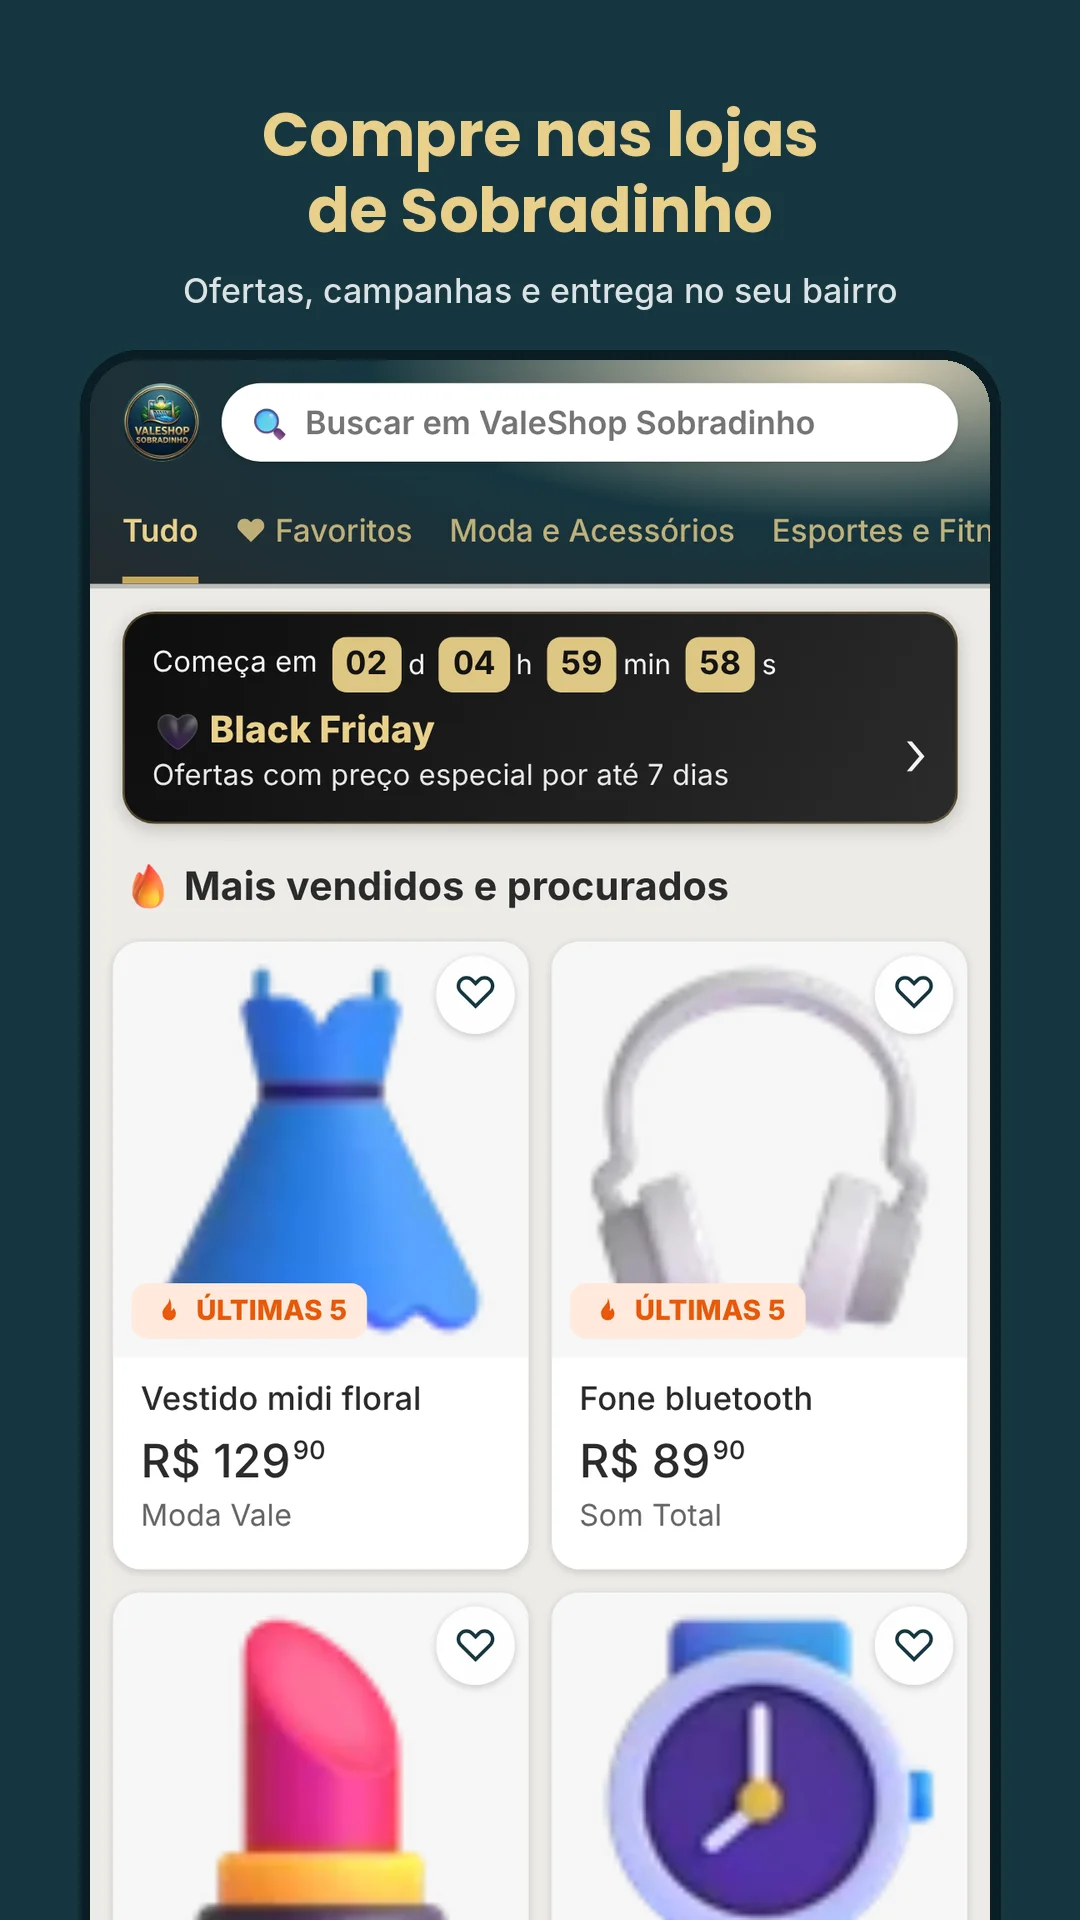
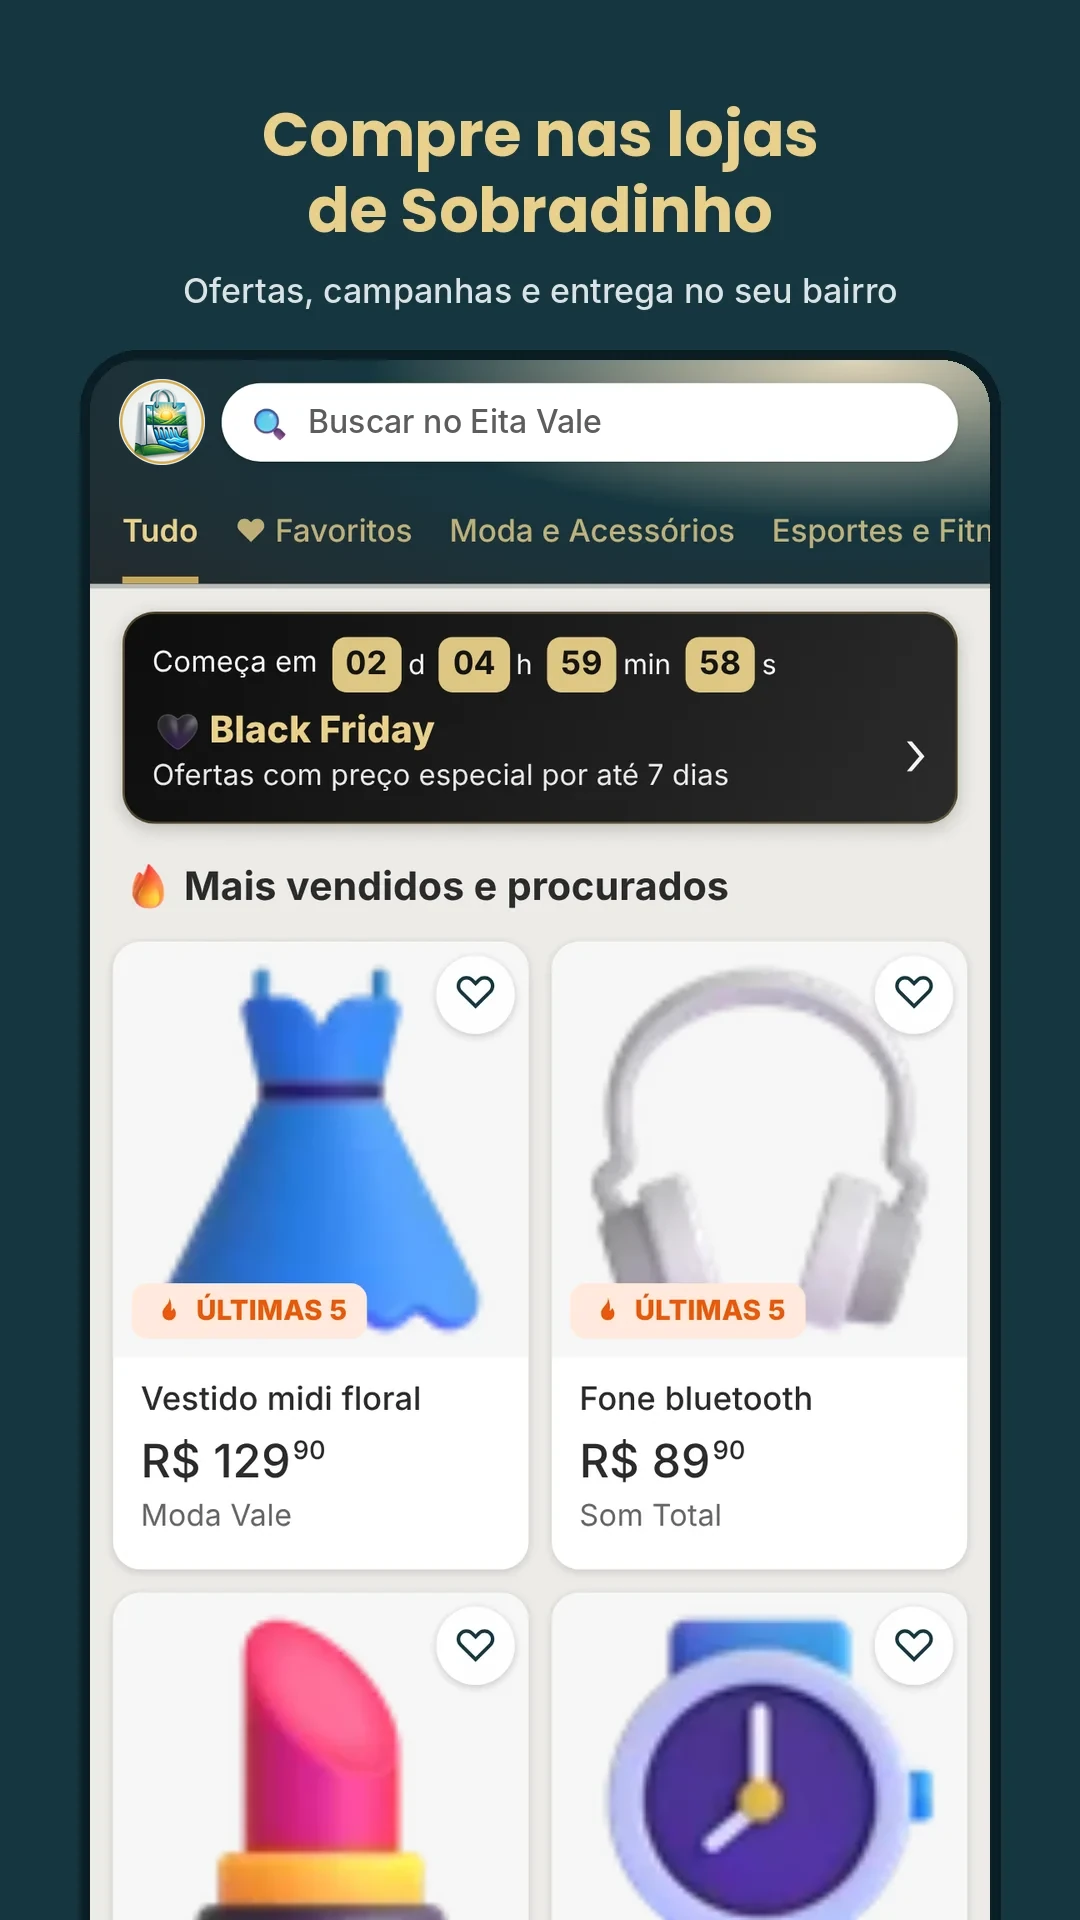
Imagens de instalação, atalho Sacolinha e cópia de segurança com o nome Eita Vale
Claude-Session: https://claude.ai/code/session_013gd5HQKS4kStWFpq98eTWE

diff --git a/supabase/functions/backup/index.ts b/supabase/functions/backup/index.ts
@@ -21,7 +21,7 @@ async function listar() {
 async function fazer() {
   const [esq, dados] = await Promise.all([rpc('backup_esquema'), rpc('backup_dados')]);
   const agora = new Date();
-  const doc = JSON.stringify({ sistema: 'ValeShop Sobradinho', gerado_em: agora.toISOString(), formato: 1, esquema_sql: esq, dados });
+  const doc = JSON.stringify({ sistema: 'Eita Vale', gerado_em: agora.toISOString(), formato: 1, esquema_sql: esq, dados });
   const gz = new Uint8Array(await new Response(new Blob([doc]).stream().pipeThrough(new CompressionStream('gzip'))).arrayBuffer());
   const dia = new Date(agora.getTime() - 3 * 3600e3).toISOString().slice(0, 10);
   const k = 'backups/' + dia + '.json.gz';
